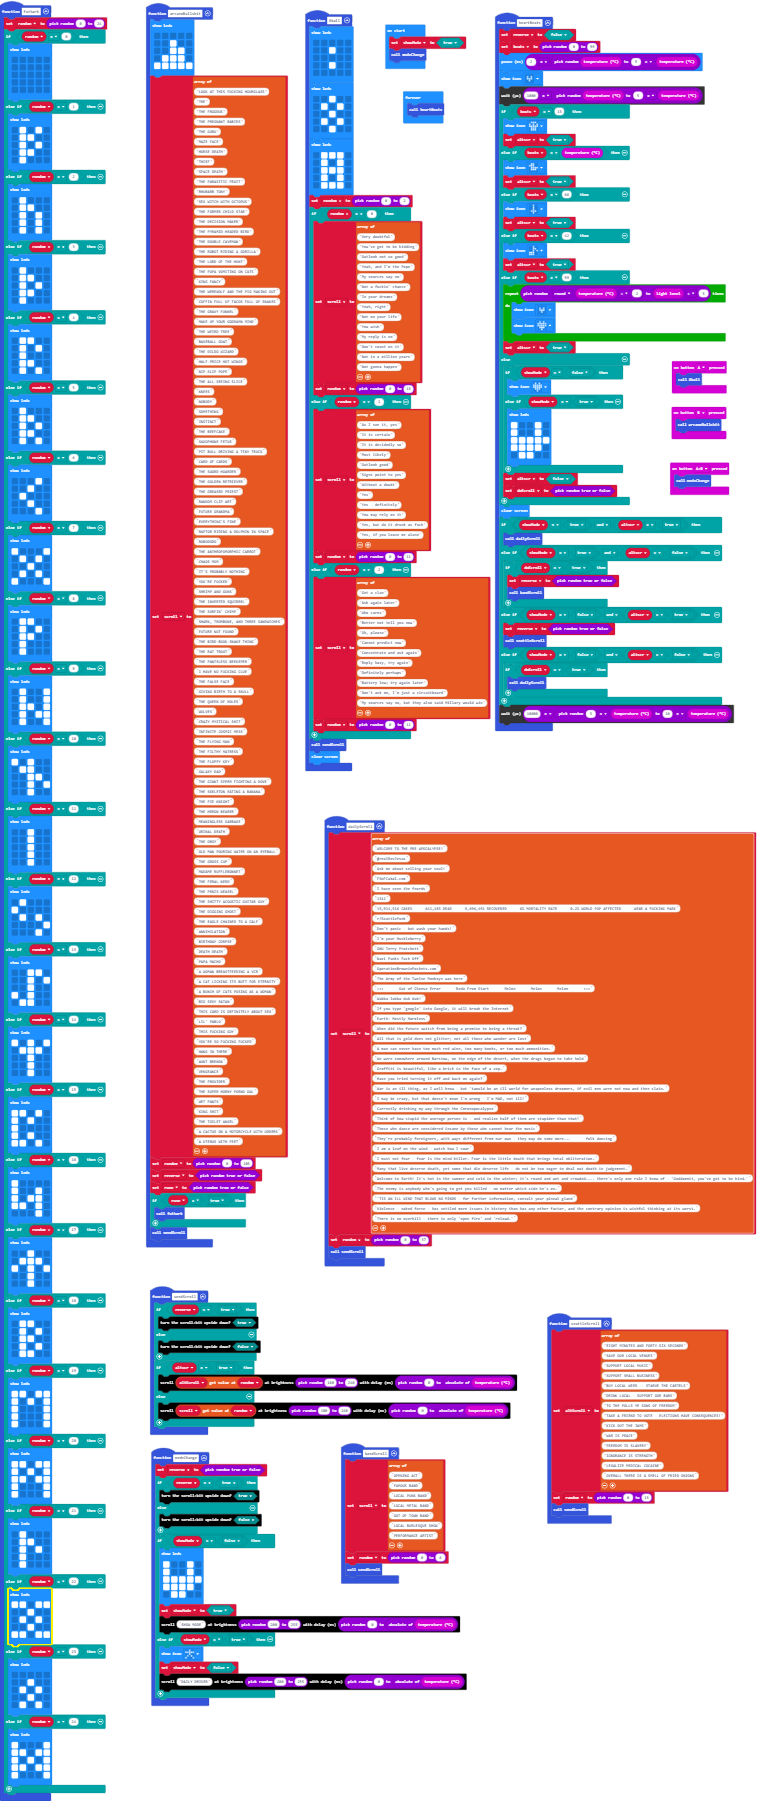
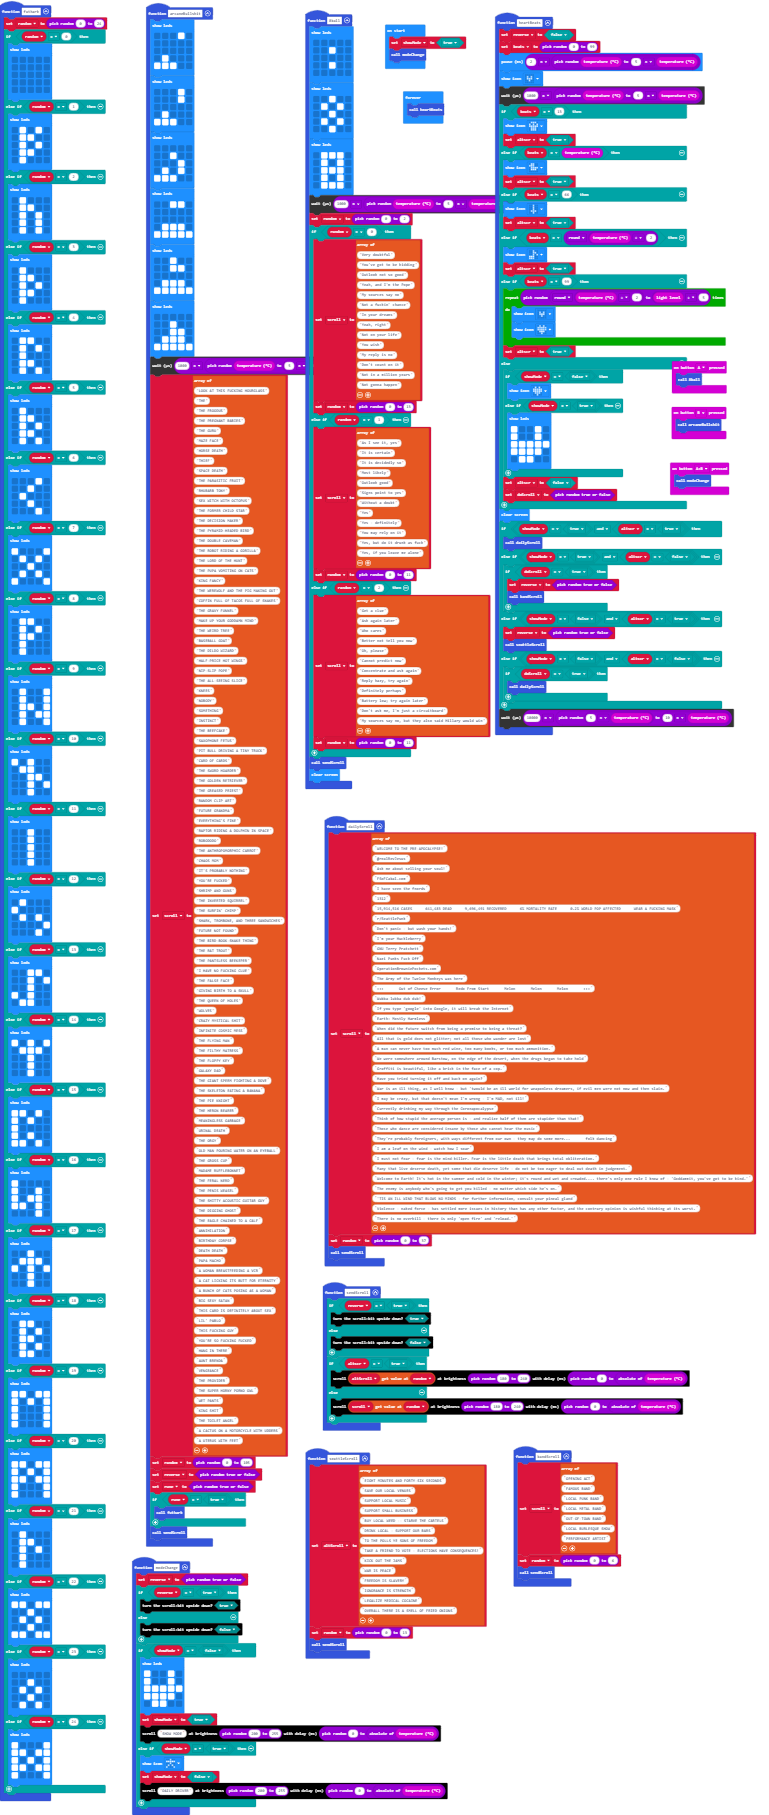
Update main.blocks, main.ts

diff --git a/main.ts b/main.ts
@@ -10,12 +10,48 @@ function dailyScroll () {
 }
 function arcaneBullshit () {
     basic.showLeds(`
+        . . . # .
+        . . . . .
+        . . . . .
+        . # . . .
+        # # # . .
+        `)
+    basic.showLeds(`
+        . . . # .
+        . . . # .
+        . . . . .
+        . # . . .
+        # # # . .
+        `)
+    basic.showLeds(`
+        . . . . .
+        . . # . .
+        . . . # .
+        . # . # .
+        # # # . .
+        `)
+    basic.showLeds(`
+        . . # # .
+        . . . . .
+        . . . . .
+        . # # # .
+        # # # # #
+        `)
+    basic.showLeds(`
+        . . # . .
+        . . # # .
+        . . . . .
+        . # # # .
+        # # # # #
+        `)
+    basic.showLeds(`
         . . . . .
         . . # . .
         . . # # .
         . # # # .
         # # # # #
         `)
+    control.waitMicros(1000 * randint(input.temperature(), 5 * input.temperature()))
     scroll = ["LOOK AT THIS FUCKING HOURGLASS", "THE", "THE FROODUS", "THE PREGNANT BABIES", "THE GURU", "MAZE FACE", "HORSE DEATH", "THIEF", "SPACE DEATH", "THE PARASITIC FRUIT", "RHUBARB TONY", "SEX WITCH WITH OCTOPUS", "THE FORMER CHILD STAR", "THE DECISION MAKER", "THE PYRAMID-HEADED BIRD", "THE DOUBLE CAVEMAN", "THE ROBOT RIDING A GORILLA", "THE LORD OF THE HUNT", "THE PUPA VOMITING ON CATS", "KING FANCY", "THE WEREWOLF AND THE PIG MAKING OUT", "COFFIN FULL OF TACOS FULL OF SNAKES", "THE GRAVY FUNNEL", "MAKE UP YOUR GODDAMN MIND", "THE WEIRD TREE", "BASEBALL GOAT", "THE DILDO WIZARD", "HALF-PRICE HOT WINGS", "NIP-SLIP POPE", "THE ALL-SEEING SLICE", "KNEES", "NOBODY", "SOMETHING", "INSTINCT", "THE BEEFCAKE", "SAXOPHONE FETUS", "PIT BULL DRIVING A TINY TRUCK", "CARD OF CARDS", "THE SWORD HOARDER", "THE GOLDEN RETRIEVER", "THE GREASED PRIEST", "RANDOM CLIP ART", "FUTURE GRANDMA", "EVERYTHING'S FINE", "RAPTOR RIDING A DOLPHIN IN SPACE", "ROBODODO", "THE ANTHROPOMORPHIC CARROT", "CHAOS MOM", "IT'S PROBABLY NOTHING", "YOU'RE FUCKED", "SHRIMP AND GUNS", "THE INVERTED SQUIRREL", "THE SURFIN' CHIMP", "SHARK, TROMBONE, AND THREE SANDWICHES", "FUTURE NOT FOUND", "THE BIRD-BOOK-SNAKE THING", "THE RAT TROUT", "THE PANTSLESS BEEKEPER", "I HAVE NO FUCKING CLUE", "THE FALSE FACE", "GIVING BIRTH TO A SKULL", "THE QUEEN OF HOLES", "WOLVES", "CRAZY MYSTICAL SHIT", "INFINITE COSMIC MESS", "THE FLYING MAN", "THE FILTHY MATRESS", "THE FLOPPY KEY", "GALAXY DAD", "THE GIANT SPERM FIGHTING A DOVE", "THE SKELETON EATING A BANANA", "THE PIE KNIGHT", "THE HERON BEARER", "MEANINGLESS GARBAGE", "URINAL DEATH", "THE ORGY", "OLD MAN POURING WATER ON AN EYEBALL", "THE GROSS CUP", "MADAME RUFFLEBONNET", "THE FERAL NERD", "THE PENIS WEASEL", "THE SHITTY ACOUSTIC GUITAR GUY", "THE DIGGING GHOST", "THE EAGLE CHAINED TO A CALF", "ANNIHILATION", "BIRTHDAY CORPSE", "DEATH DEATH", "PAPA MACHO", "A WOMAN BREASTFEEDING A VCR", "A CAT LICKING ITS BUTT FOR ETERNITY", "A BUNCH OF CATS POSING AS A WOMAN", "BIG SEXY SATAN", "THIS CARD IS DEFINITELY ABOUT SEX", "LIL' PABLO", "THIS FUCKING GUY", "YOU'RE SO FUCKING FUCKED", "HANG IN THERE", "AUNT BRENDA", "VENGEANCE", "THE PROVIDER", "THE SUPER HORNY PORNO OWL", "WET PANTS", "KING SHIT", "THE TOILET ANGEL", "A CACTUS ON A MOTORCYCLE WITH UDDERS", "A UTERUS WITH FEET"]
     random = randint(0, 105)
     reverse = Math.randomBoolean()
@@ -293,7 +329,7 @@ function heartBeats () {
     } else if (beats == 66) {
         basic.showIcon(IconNames.Sword)
         altscr = true
-    } else if (beats == 42) {
+    } else if (beats == Math.round(input.temperature() / 2)) {
         basic.showIcon(IconNames.EigthNote)
         altscr = true
     } else if (beats == 99) {
@@ -357,6 +393,7 @@ function _8ball () {
         . # . # .
         . # # # .
         `)
+    control.waitMicros(1000 * randint(input.temperature(), 5 * input.temperature()))
     random = randint(0, 2)
     if (random == 0) {
         scroll = ["Very doubtful", "You've got to be kidding", "Outlook not so good", "Yeah, and I'm the Pope", "My sources say no", "Not a fuckin' chance", "In your dreams", "Yeah, right", "Not on your life", "You wish", "My reply is no", "Don't count on it", "Not in a million years", "Not gonna happen"]
